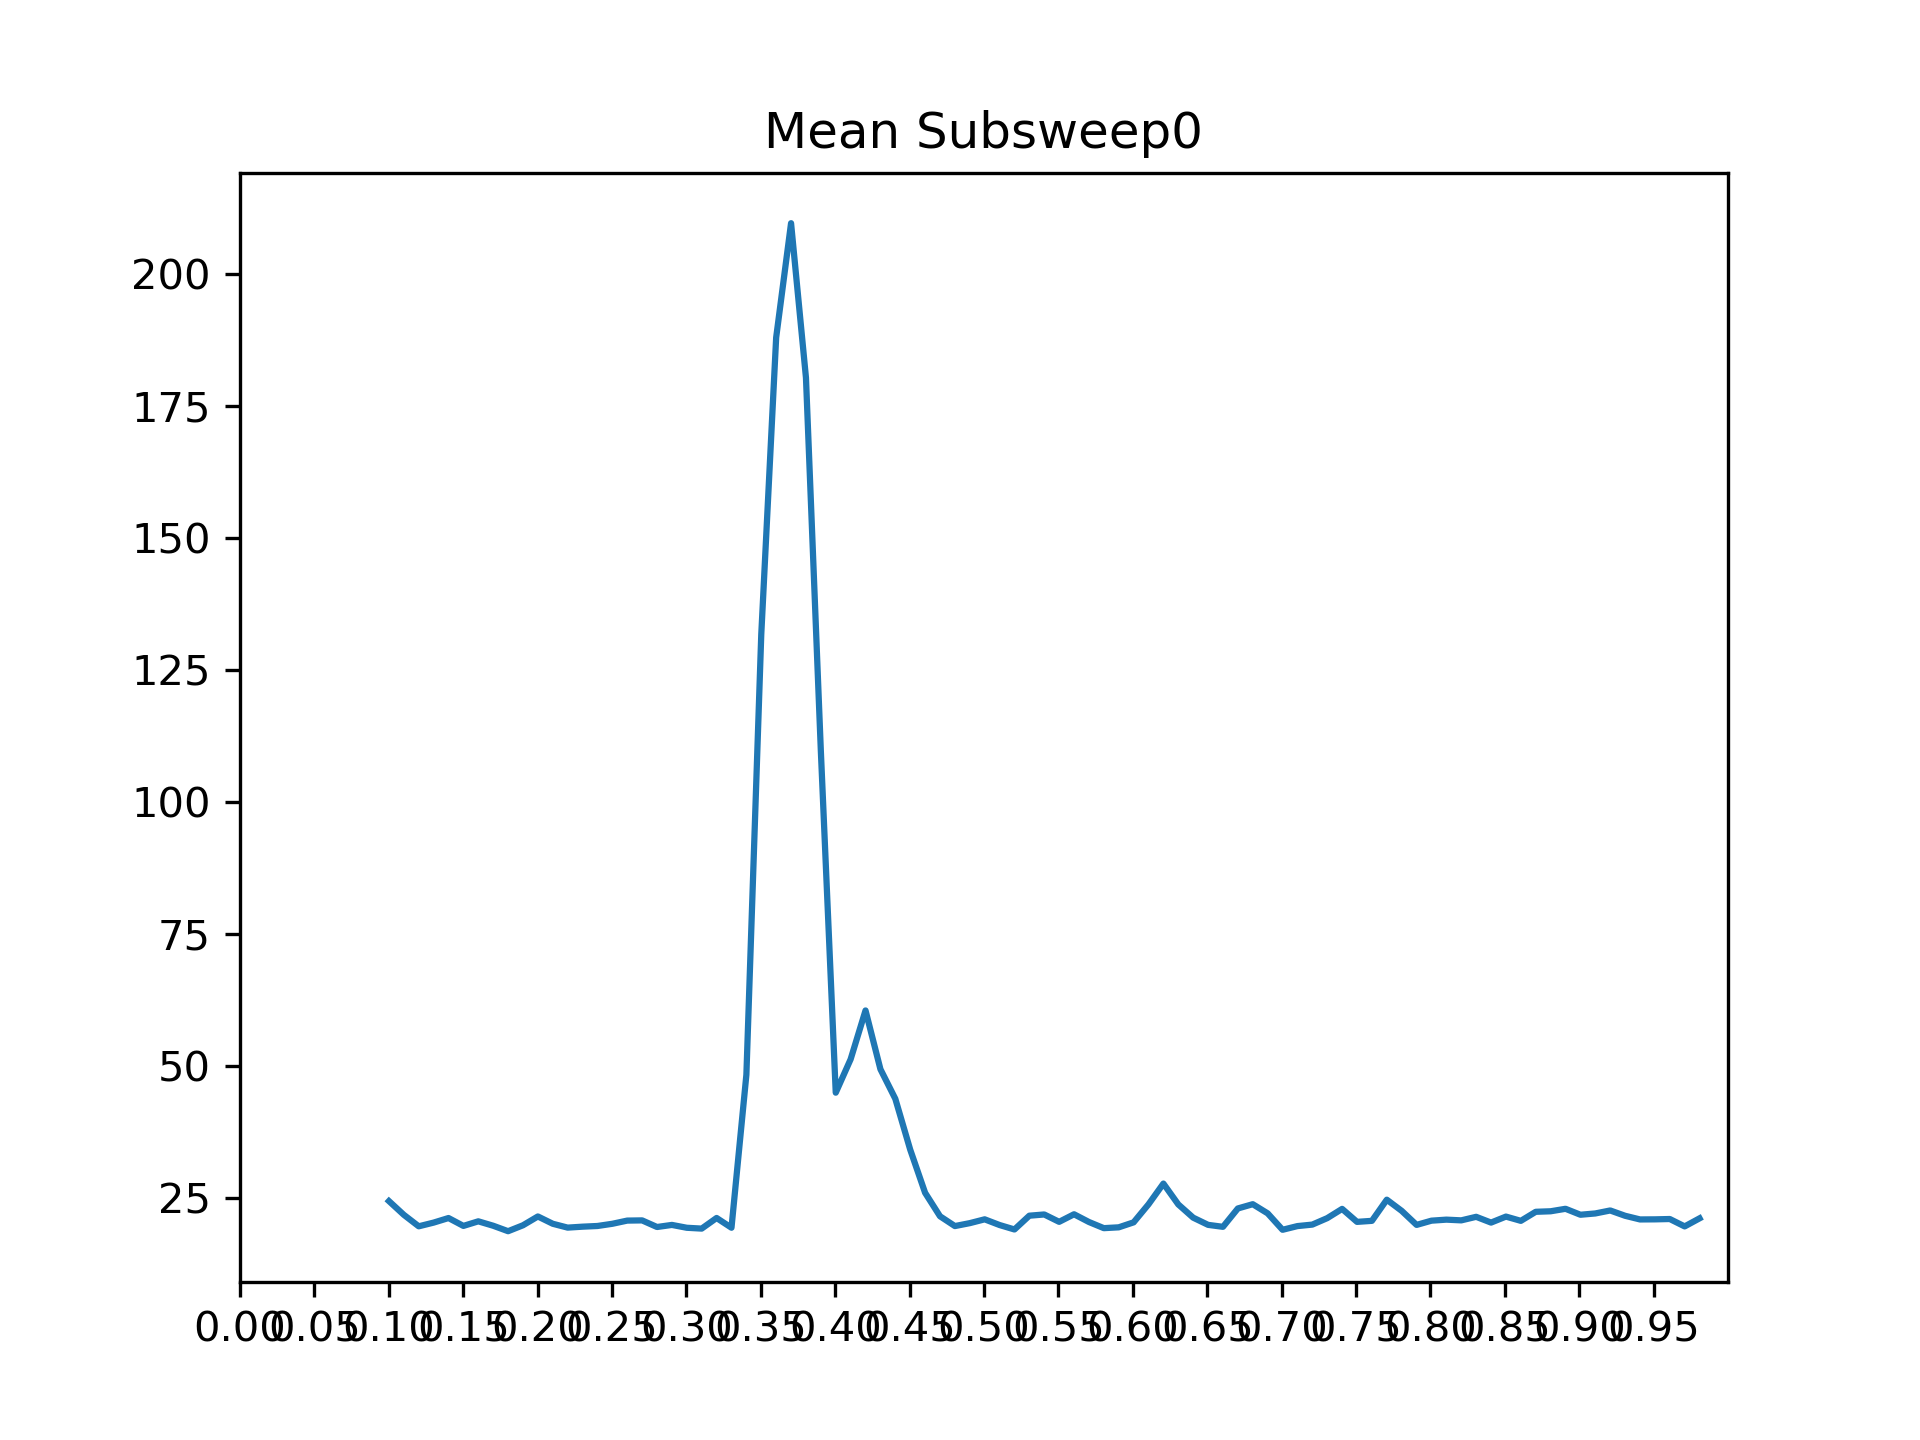
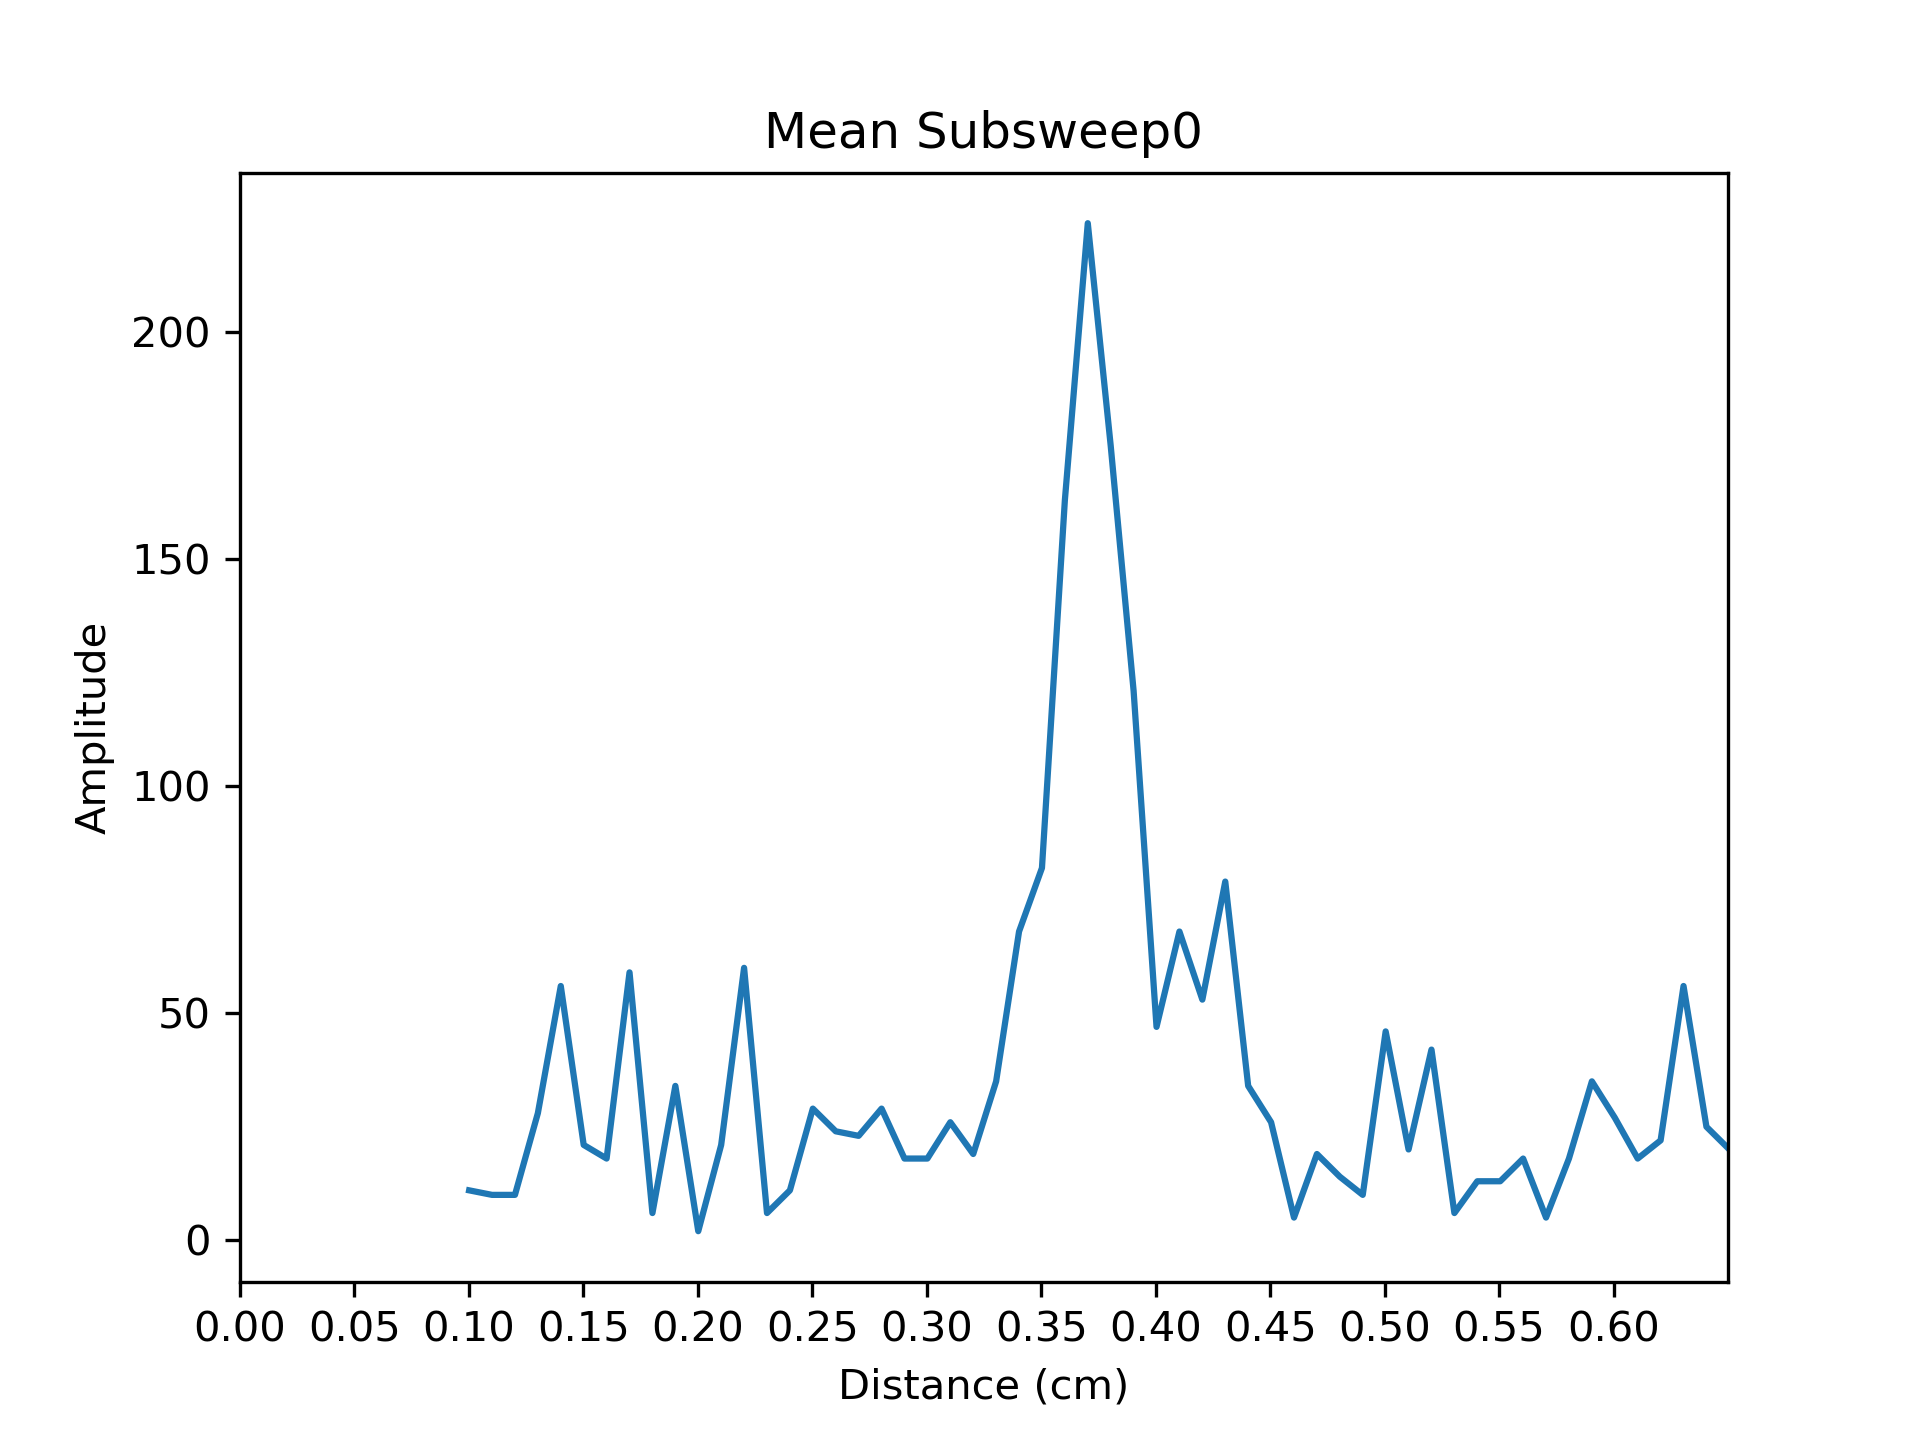
fixing single sweep plot

diff --git a/radar/data_plotting.py b/radar/data_plotting.py
@@ -2,8 +2,7 @@ import matplotlib.pyplot as plt
 import numpy as np
 
 
-plt.xlabel("Distance (cm)")
-plt.ylabel("Amplitude")
+
 # with open("copy.txt", "r+", encoding="utf-8") as file:
 #     subsweepIndex = False
 #     print("entered")
@@ -34,9 +33,11 @@ def plotSingleSweep(f):
                 break
             if (chars[0] == 'B'):
                 print("new sweep")
-            if (chars[0] == 'S'):
+            if (chars[0] == 's'):
                 subsweepIndex += 1
                 #plt.plot(distanceXAxis, amplitudeYAxis)
+                # print(distanceXAxis)
+                # print(amplitudeYAxis)
                 plt.plot(distanceXAxis, amplitudeYAxis, label="Subsweep " + str(subsweepIndex))
                 distanceXAxis = []
                 amplitudeYAxis = []
@@ -60,9 +61,11 @@ def plotSingleSweep(f):
                 index += 1
                 distance = ""
                 amplitude = ""
+    plt.xlabel("Distance (cm)")
+    plt.ylabel("Amplitude")
     f = "./test2_plot.png"
     plt.legend()
-    plt.plot(distanceXAxis, amplitudeYAxis)
+    #plt.plot(distanceXAxis, amplitudeYAxis)
     plt.title("Single Sweep")
     plt.xlim(0, 1.0)
     plt.xticks(np.arange(0, 1.0, 0.05))
@@ -82,7 +85,7 @@ def plotSweepsAvg(f):
         for x in file:
             chars = [*x]
             if chars[2] == 'd' or chars[0] == 'E':
-                continue
+                break
             if (chars[9].isdigit()):
                 subsweepIndex = int(chars[9])
             if chars[0].isdigit():
@@ -118,10 +121,12 @@ def plotSweepsAvg(f):
         xAxis.append(key)
         yAxis.append(np.mean(value))
 
+    plt.xlabel("Distance (cm)")
+    plt.ylabel("Amplitude")
     plt.plot(xAxis, yAxis)
     plt.title("Mean Subsweep0")
-    plt.xlim(0, 1.0)
-    plt.xticks(np.arange(0, 1.0, 0.05))
+    plt.xlim(0, 0.65)
+    plt.xticks(np.arange(0, 0.65, 0.05))
     plt.savefig(f, dpi=300)
                 
                 
